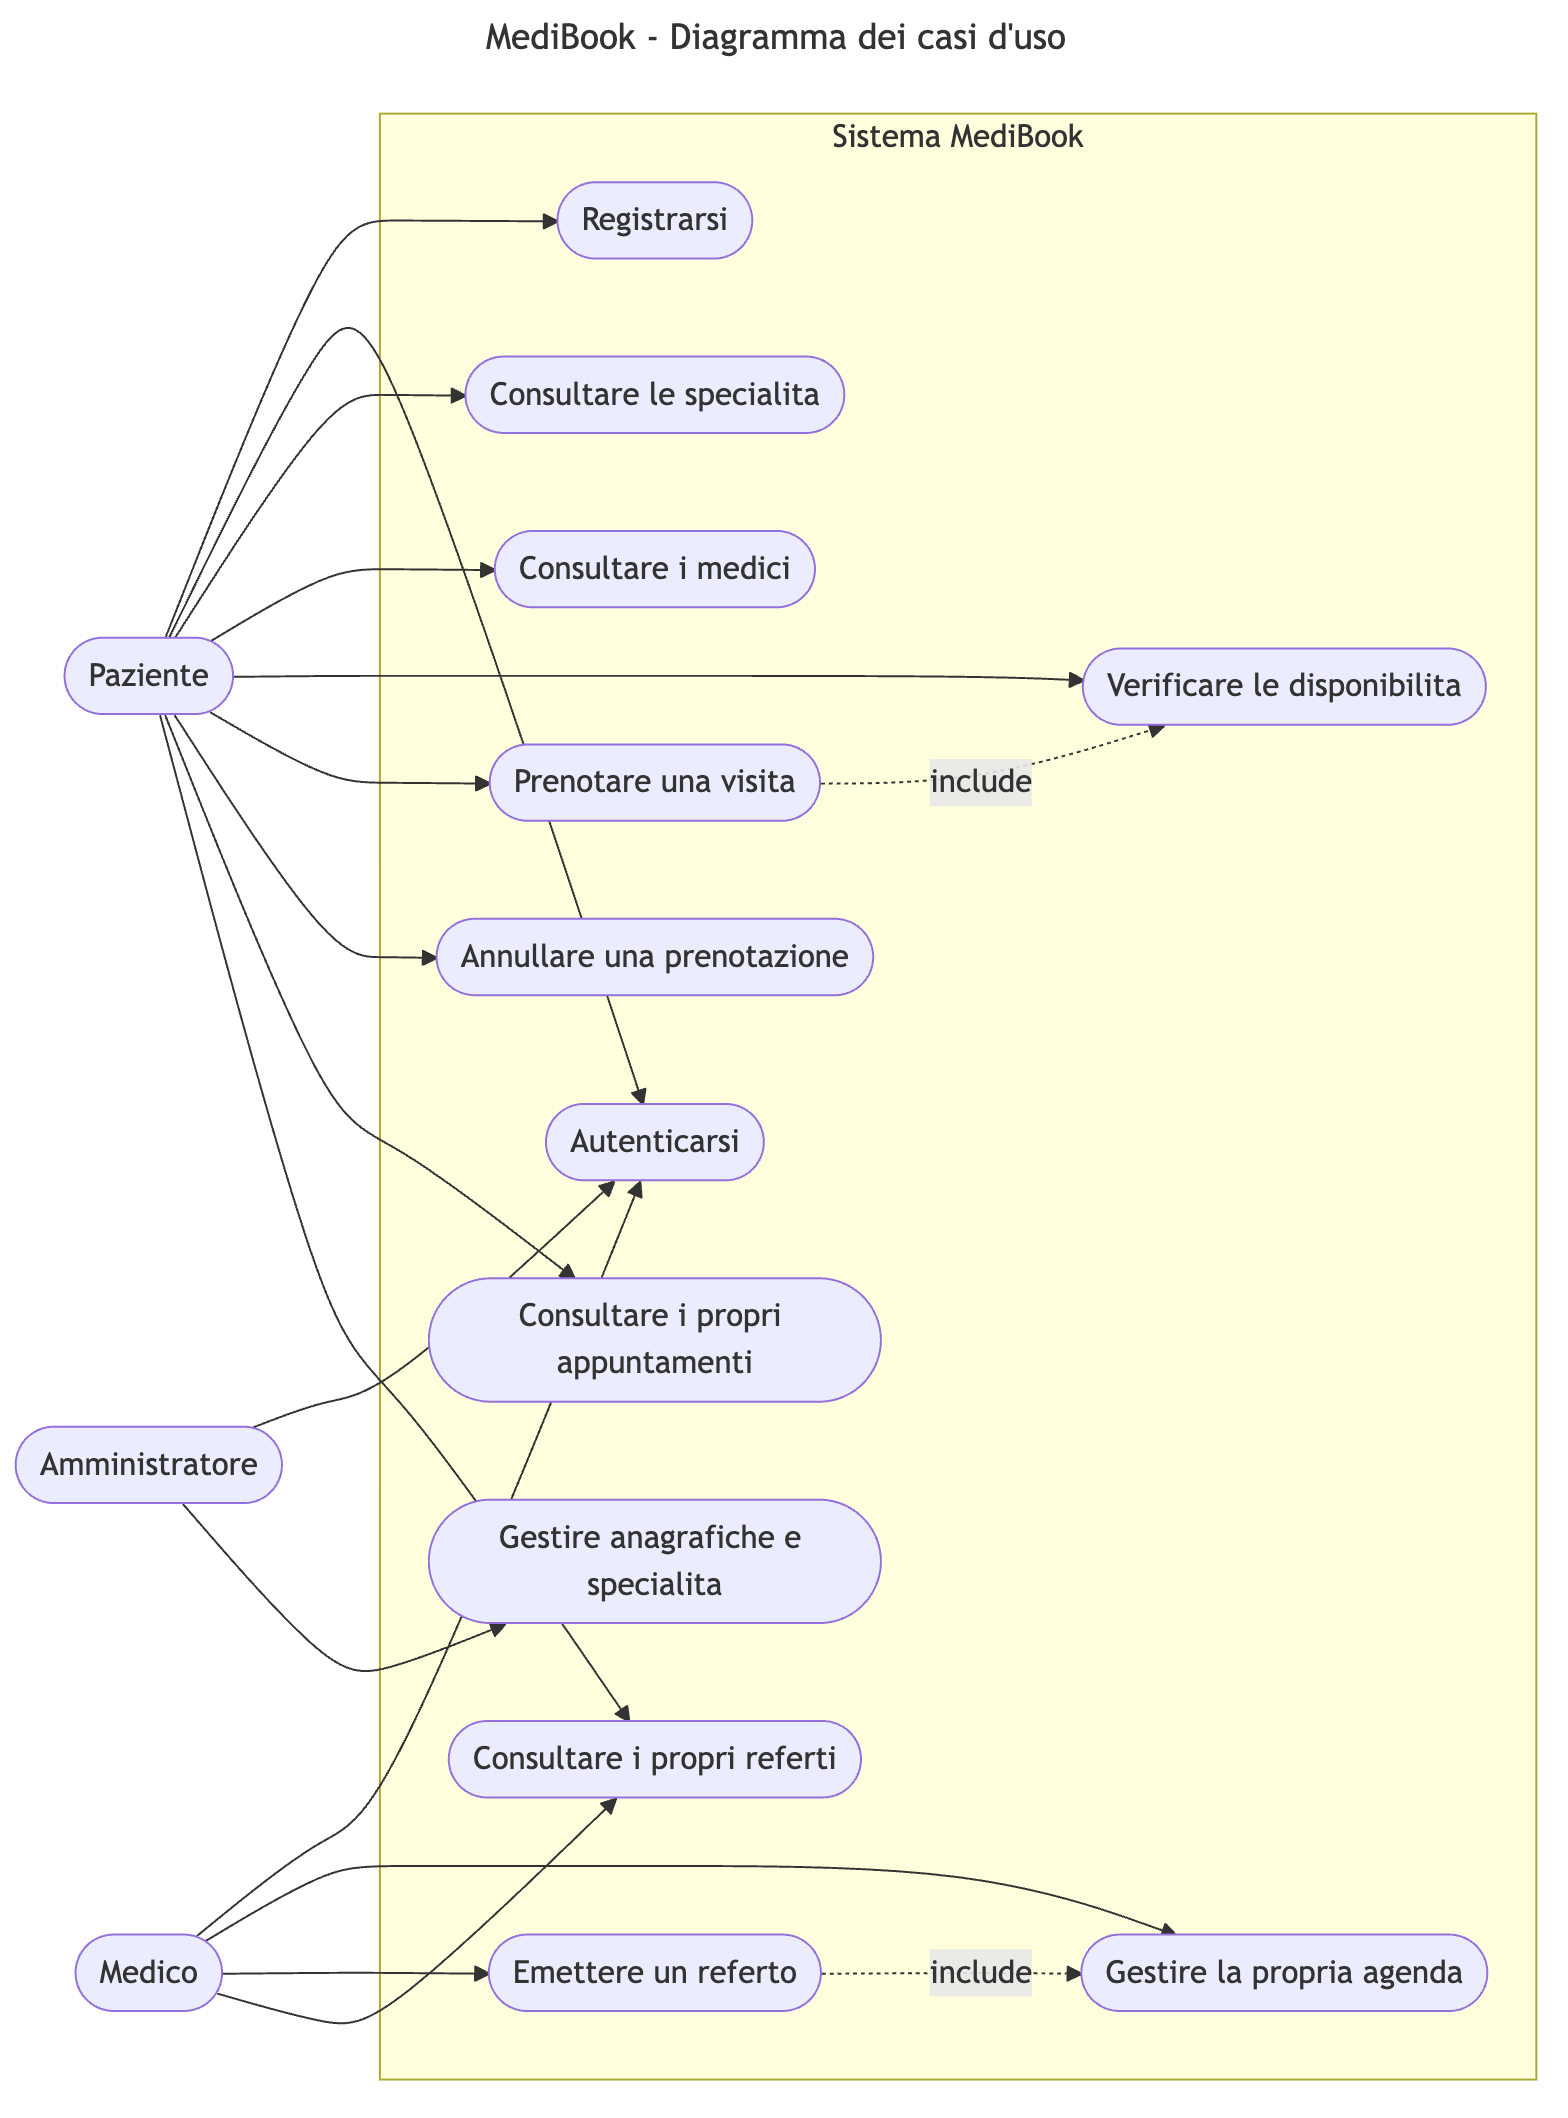
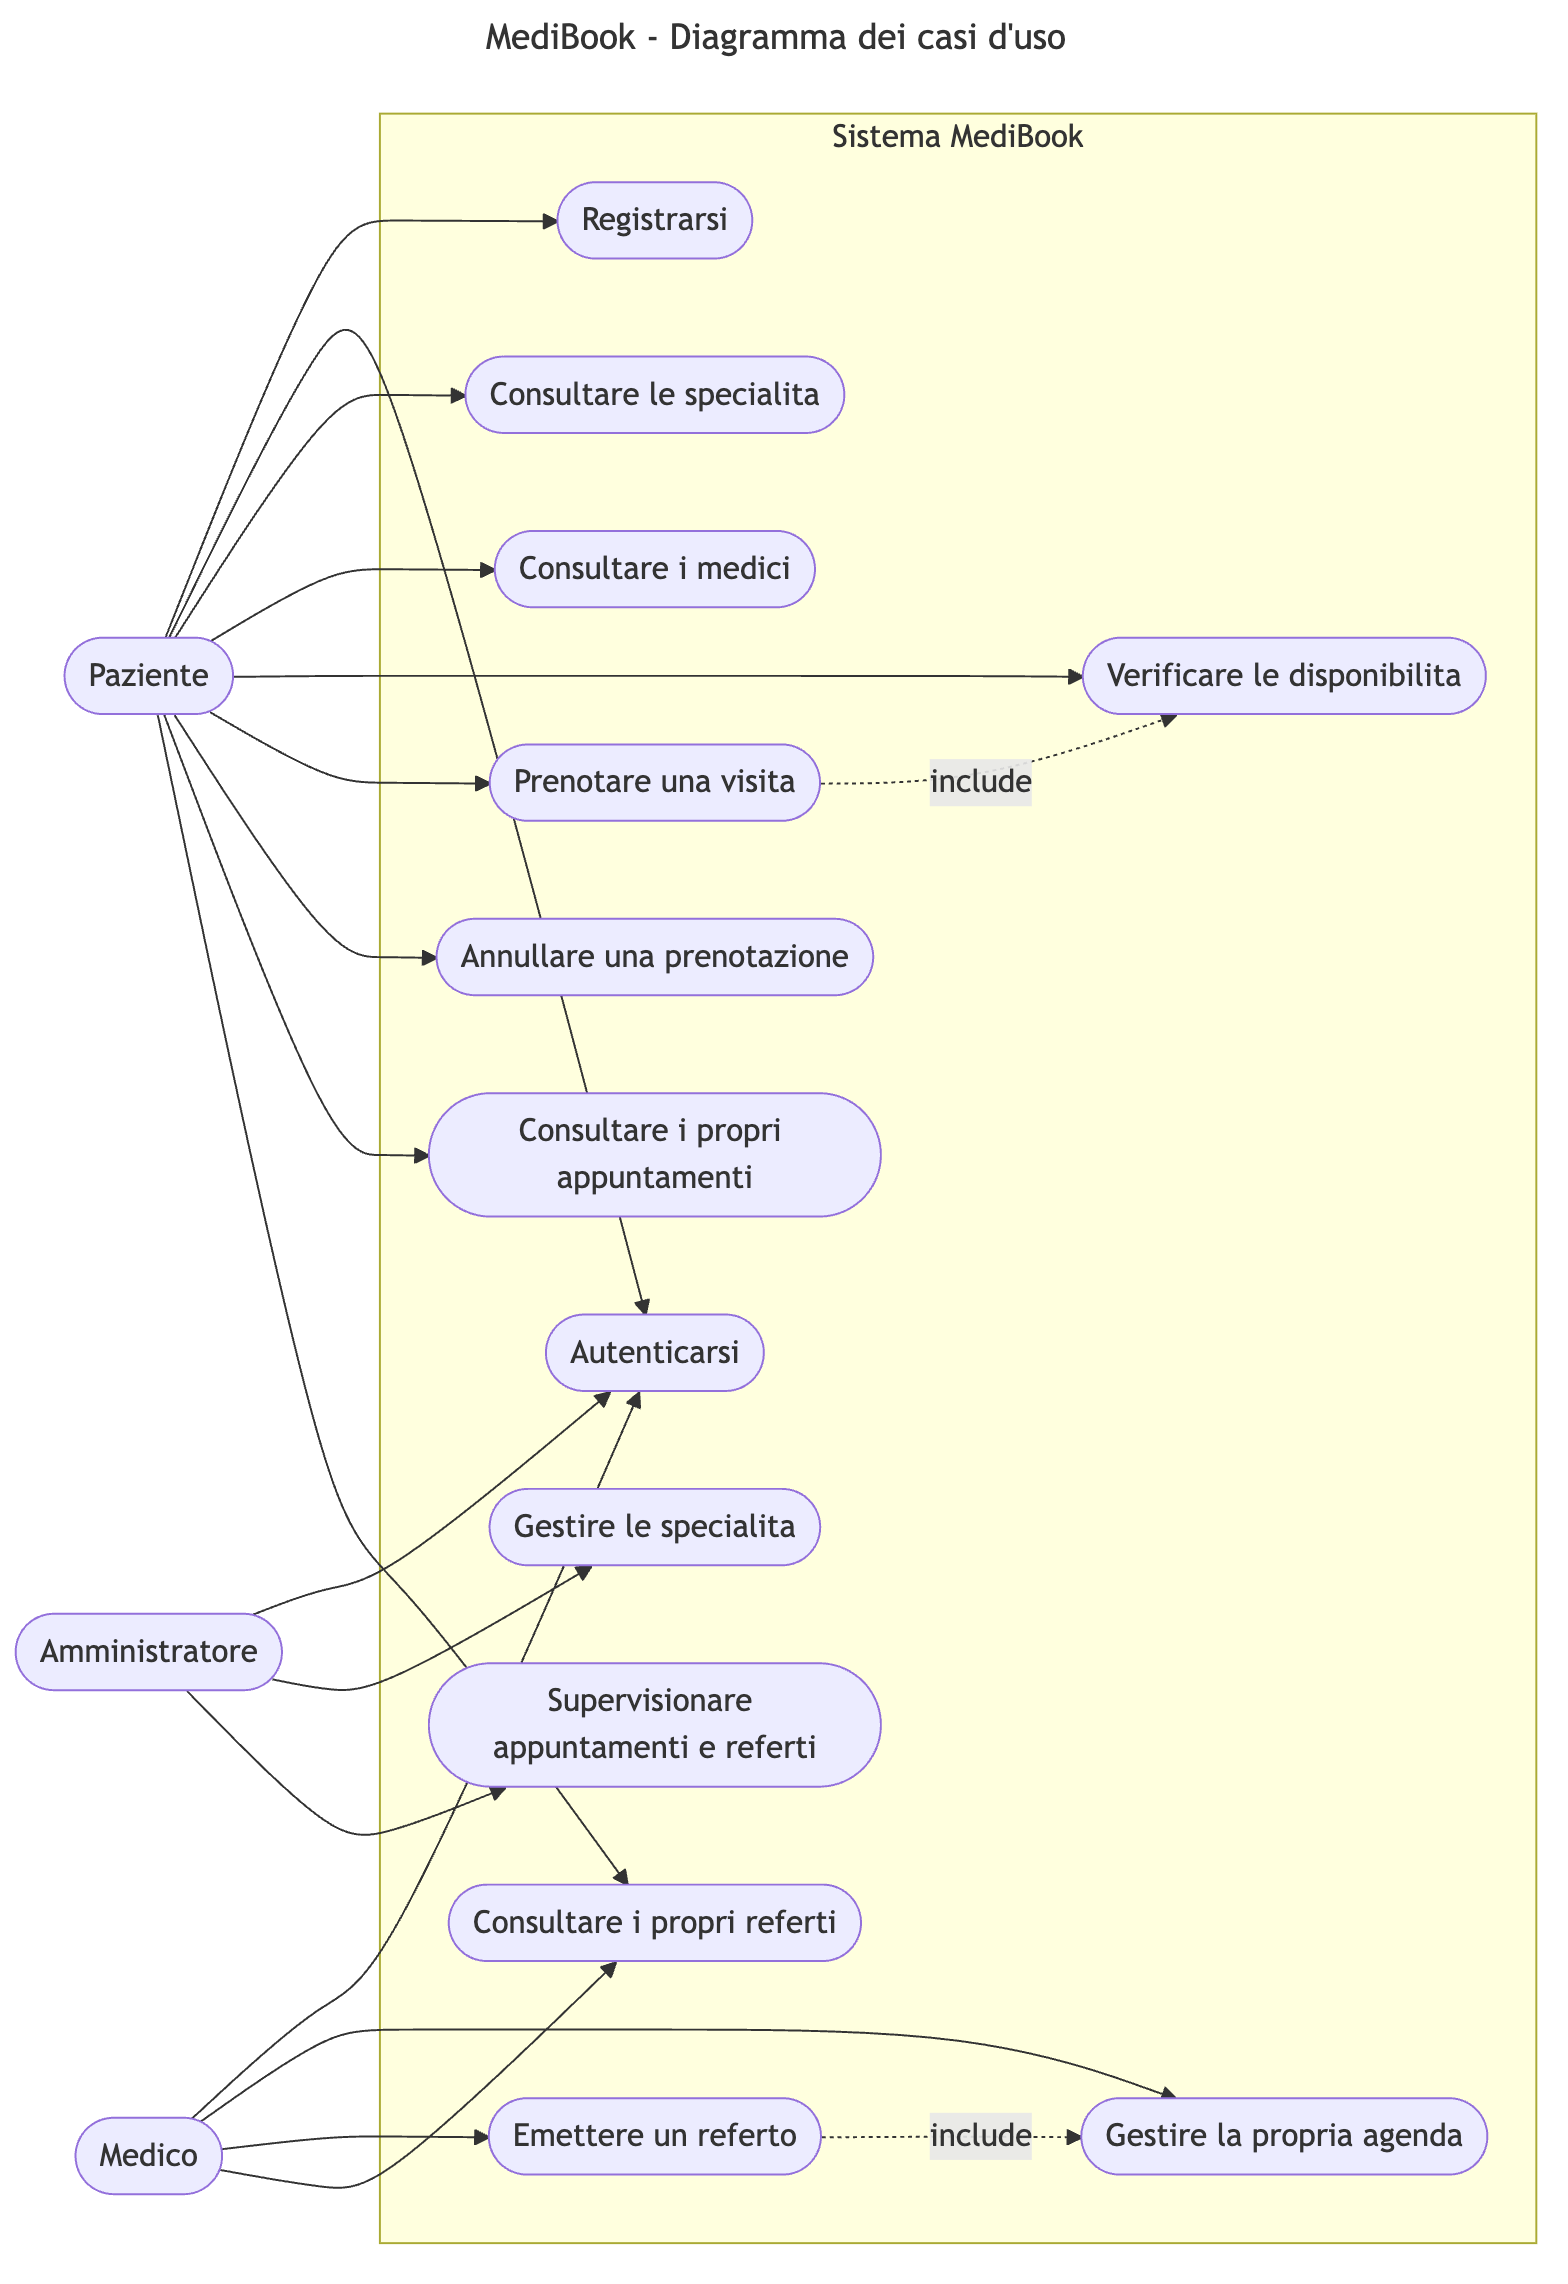
feat(api): gestione delle specialita riservata all'amministratore
Aggiunge creazione, modifica ed eliminazione delle specialita
(POST/PUT/DELETE /api/specialita) protette dal ruolo admin, con
validazione in SpecialitaRequest e 409 se la specialita ha medici
associati. Allinea il codice al caso d'uso dell'Amministratore
descritto nel rapporto.

Aggiorna test (33), specifica OpenAPI, diagramma dei casi d'uso,
README e screenshot Swagger.

diff --git a/backend/tests/Feature/Api/GestioneSpecialitaTest.php b/backend/tests/Feature/Api/GestioneSpecialitaTest.php
@@ -1,0 +1,97 @@
+<?php
+
+namespace Tests\Feature\Api;
+
+use App\Models\Medico;
+use App\Models\Specialita;
+use App\Models\User;
+use Illuminate\Foundation\Testing\RefreshDatabase;
+use Tests\TestCase;
+
+class GestioneSpecialitaTest extends TestCase
+{
+    use RefreshDatabase;
+
+    private User $admin;
+
+    protected function setUp(): void
+    {
+        parent::setUp();
+
+        $this->admin = User::factory()->admin()->create();
+    }
+
+    private function datiSpecialita(array $sovrascritture = []): array
+    {
+        return [
+            'nome' => 'Ortopedia',
+            'descrizione' => 'Diagnosi e cura delle patologie dell\'apparato muscolo-scheletrico.',
+            'durata_visita_minuti' => 30,
+            'costo' => 110,
+            ...$sovrascritture,
+        ];
+    }
+
+    public function test_l_amministratore_puo_creare_una_specialita(): void
+    {
+        $this->actingAs($this->admin, 'sanctum')
+            ->postJson('/api/specialita', $this->datiSpecialita())
+            ->assertCreated()
+            ->assertJsonPath('data.nome', 'Ortopedia');
+
+        $this->assertDatabaseHas('specialita', ['nome' => 'Ortopedia']);
+    }
+
+    public function test_il_nome_della_specialita_deve_essere_univoco(): void
+    {
+        Specialita::factory()->create(['nome' => 'Ortopedia']);
+
+        $this->actingAs($this->admin, 'sanctum')
+            ->postJson('/api/specialita', $this->datiSpecialita())
+            ->assertStatus(422)
+            ->assertJsonValidationErrors('nome');
+    }
+
+    public function test_l_amministratore_puo_modificare_una_specialita(): void
+    {
+        $specialita = Specialita::factory()->create(['nome' => 'Ortopedia']);
+
+        $this->actingAs($this->admin, 'sanctum')
+            ->putJson('/api/specialita/'.$specialita->id, $this->datiSpecialita(['costo' => 95]))
+            ->assertOk()
+            ->assertJsonPath('data.costo', 95);
+    }
+
+    public function test_una_specialita_con_medici_associati_non_e_eliminabile(): void
+    {
+        $specialita = Specialita::factory()->create();
+        Medico::factory()->create(['specialita_id' => $specialita->id]);
+
+        $this->actingAs($this->admin, 'sanctum')
+            ->deleteJson('/api/specialita/'.$specialita->id)
+            ->assertStatus(409);
+
+        $this->assertDatabaseHas('specialita', ['id' => $specialita->id]);
+    }
+
+    public function test_l_amministratore_puo_eliminare_una_specialita_senza_medici(): void
+    {
+        $specialita = Specialita::factory()->create();
+
+        $this->actingAs($this->admin, 'sanctum')
+            ->deleteJson('/api/specialita/'.$specialita->id)
+            ->assertOk();
+
+        $this->assertDatabaseMissing('specialita', ['id' => $specialita->id]);
+    }
+
+    public function test_solo_l_amministratore_puo_gestire_le_specialita(): void
+    {
+        $this->postJson('/api/specialita', $this->datiSpecialita())
+            ->assertUnauthorized();
+
+        $this->actingAs(User::factory()->create(), 'sanctum')
+            ->postJson('/api/specialita', $this->datiSpecialita())
+            ->assertForbidden();
+    }
+}

diff --git a/backend/app/Http/Controllers/Api/SpecialitaController.php b/backend/app/Http/Controllers/Api/SpecialitaController.php
@@ -3,8 +3,10 @@
 namespace App\Http\Controllers\Api;
 
 use App\Http\Controllers\Controller;
+use App\Http\Requests\SpecialitaRequest;
 use App\Http\Resources\SpecialitaResource;
 use App\Models\Specialita;
+use Illuminate\Http\JsonResponse;
 use Illuminate\Http\Resources\Json\AnonymousResourceCollection;
 
 class SpecialitaController extends Controller
@@ -19,5 +21,35 @@ class SpecialitaController extends Controller
     public function show(Specialita $specialita): SpecialitaResource
     {
         return new SpecialitaResource($specialita);
+    }
+
+    public function store(SpecialitaRequest $request): JsonResponse
+    {
+        $specialita = Specialita::create($request->validated());
+
+        return (new SpecialitaResource($specialita))
+            ->response()
+            ->setStatusCode(201);
+    }
+
+    public function update(SpecialitaRequest $request, Specialita $specialita): SpecialitaResource
+    {
+        $specialita->update($request->validated());
+
+        return new SpecialitaResource($specialita);
+    }
+
+    /** Una specialita a cui sono ancora associati dei medici non puo essere eliminata. */
+    public function destroy(Specialita $specialita): JsonResponse
+    {
+        abort_if(
+            $specialita->medici()->exists(),
+            409,
+            'La specialità ha ancora dei medici associati e non può essere eliminata.'
+        );
+
+        $specialita->delete();
+
+        return response()->json(['message' => 'Specialità eliminata con successo.']);
     }
 }

diff --git a/backend/app/Http/Requests/SpecialitaRequest.php b/backend/app/Http/Requests/SpecialitaRequest.php
@@ -1,0 +1,32 @@
+<?php
+
+namespace App\Http\Requests;
+
+use Illuminate\Foundation\Http\FormRequest;
+use Illuminate\Validation\Rule;
+
+/** Validazione dei dati di una specialita, condivisa fra creazione e modifica. */
+class SpecialitaRequest extends FormRequest
+{
+    public function authorize(): bool
+    {
+        return $this->user()?->isAdmin() ?? false;
+    }
+
+    public function rules(): array
+    {
+        return [
+            'nome' => ['required', 'string', 'max:100', Rule::unique('specialita', 'nome')->ignore($this->route('specialita'))],
+            'descrizione' => ['nullable', 'string'],
+            'durata_visita_minuti' => ['required', 'integer', 'min:10', 'max:240'],
+            'costo' => ['required', 'numeric', 'min:0', 'max:999999.99'],
+        ];
+    }
+
+    public function messages(): array
+    {
+        return [
+            'nome.unique' => 'Esiste già una specialità con questo nome.',
+        ];
+    }
+}

diff --git a/backend/routes/api.php b/backend/routes/api.php
@@ -37,4 +37,10 @@ Route::middleware('auth:sanctum')->group(function () {
     Route::get('/referti', [RefertoController::class, 'index']);
     Route::get('/referti/{referto}', [RefertoController::class, 'show']);
     Route::post('/referti', [RefertoController::class, 'store'])->middleware('ruolo:medico');
+
+    Route::middleware('ruolo:admin')->group(function () {
+        Route::post('/specialita', [SpecialitaController::class, 'store']);
+        Route::put('/specialita/{specialita}', [SpecialitaController::class, 'update']);
+        Route::delete('/specialita/{specialita}', [SpecialitaController::class, 'destroy']);
+    });
 });

diff --git a/README.md b/README.md
@@ -160,7 +160,7 @@ prenotazioni e referti. Tutte le utenze usano la password `password123`.
 | Paziente | `paziente@medibook.test` | Ha una visita futura e un referto già emesso |
 | Medico | `giulia.bianchi@medibook.test` | Cardiologia, riceve lun-ven 09:00-17:00 |
 | Medico | `sara.ferrari@medibook.test` | Dermatologia, riceve mar e gio 08:30-13:30 |
-| Amministratore | `admin@medibook.test` | Utenza di direzione |
+| Amministratore | `admin@medibook.test` | Utenza di direzione: gestisce le specialità via API e consulta tutti gli appuntamenti e i referti |
 
 ## Documentazione delle API
 
@@ -193,6 +193,9 @@ Il file sorgente della specifica è `backend/public/docs/openapi.yaml`.
 | GET | `/api/referti` | token | Elenco dei referti, paginato |
 | GET | `/api/referti/{id}` | token | Dettaglio di un referto |
 | POST | `/api/referti` | token (medico) | Emissione del referto |
+| POST | `/api/specialita` | token (admin) | Creazione di una specialità |
+| PUT | `/api/specialita/{id}` | token (admin) | Modifica di una specialità |
+| DELETE | `/api/specialita/{id}` | token (admin) | Eliminazione di una specialità senza medici associati |
 
 Le risposte adottano i codici di stato HTTP semanticamente corretti
 (`200`, `201`, `401`, `403`, `404`, `409`, `422`, `429`) e un corpo JSON coerente;
@@ -224,7 +227,7 @@ gli indici sui campi più interrogati (`ruolo`, `stato`, `specialita_id`, `pazie
 
 La suite copre i casi d'uso principali e i percorsi di errore: autenticazione,
 filtri del catalogo, generazione degli slot, prenotazione (slot occupato, fuori orario,
-nel passato, ruolo errato), annullamento e autorizzazioni sui referti.
+nel passato, ruolo errato), annullamento, autorizzazioni sui referti e gestione delle specialità riservata all'amministratore.
 
 ```bash
 cd backend
@@ -232,7 +235,7 @@ php artisan test
 ```
 
 ```
-Tests:    27 passed (62 assertions)
+Tests:    33 passed (76 assertions)
 ```
 
 I test girano su SQLite in memoria, senza toccare la base dati di sviluppo.
@@ -252,6 +255,7 @@ Il test funzionale dell'interfaccia è documentato in [`docs/screenshot/`](docs/
 | `07-referto.png` | Dettaglio di un referto |
 | `08-agenda-medico.png` | Agenda del medico autenticato |
 | `09-swagger.png` | Documentazione Swagger UI delle API |
+| `10-swagger-endpoint.png` | Endpoint di appuntamenti, referti e amministrazione in Swagger UI |
 
 ## Scelte progettuali di rilievo
 
